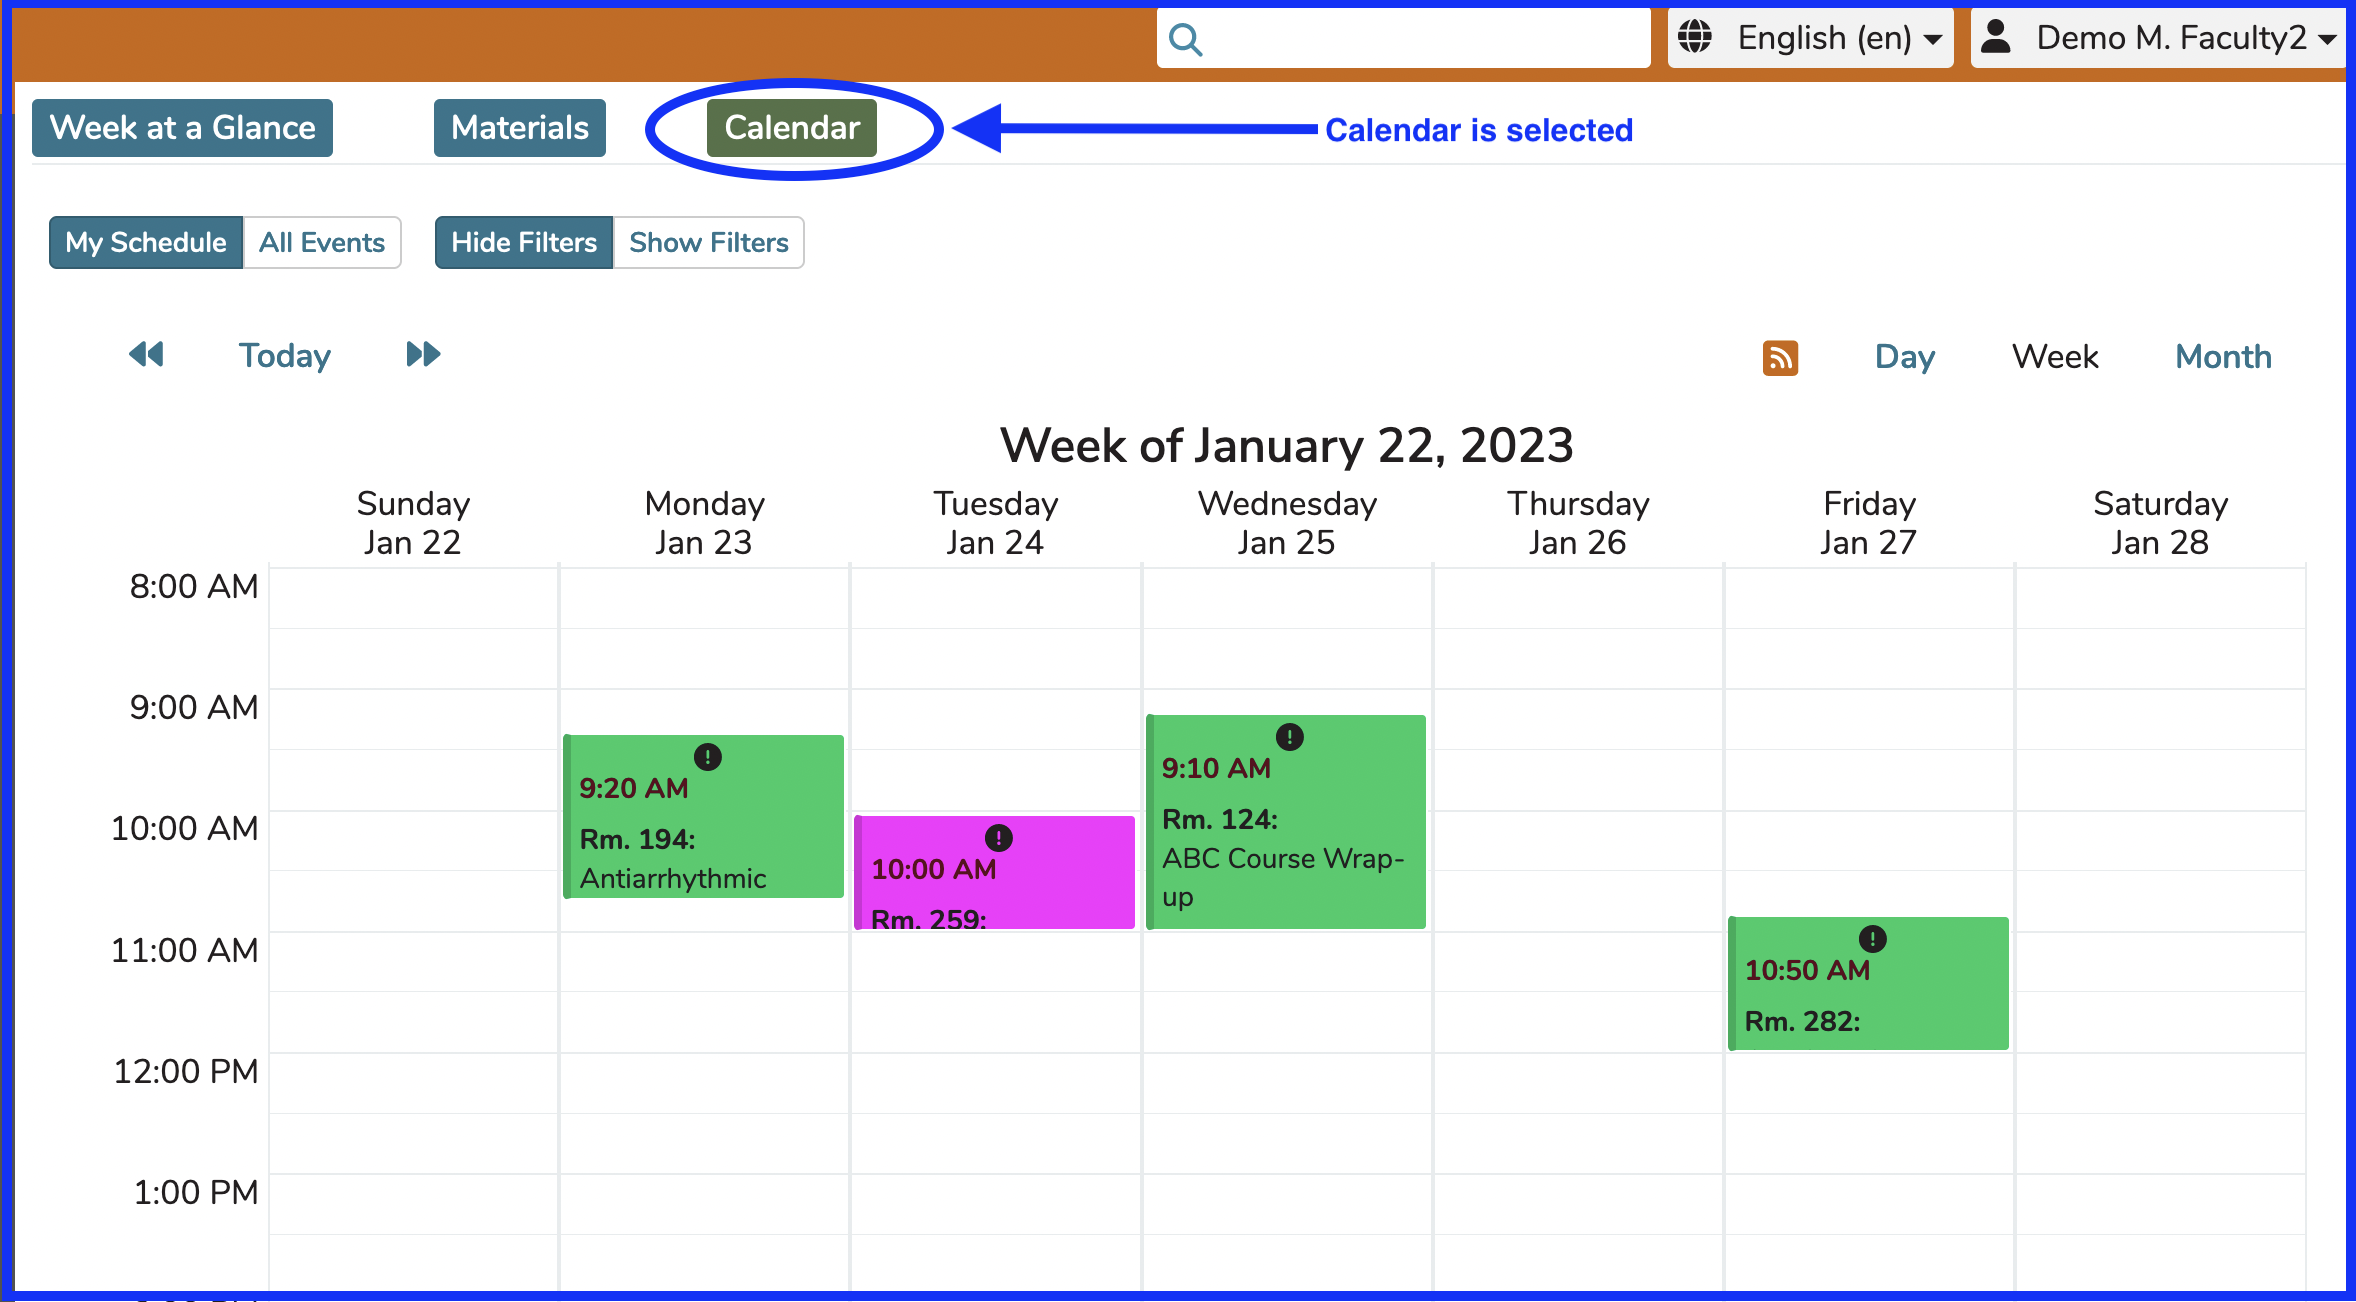
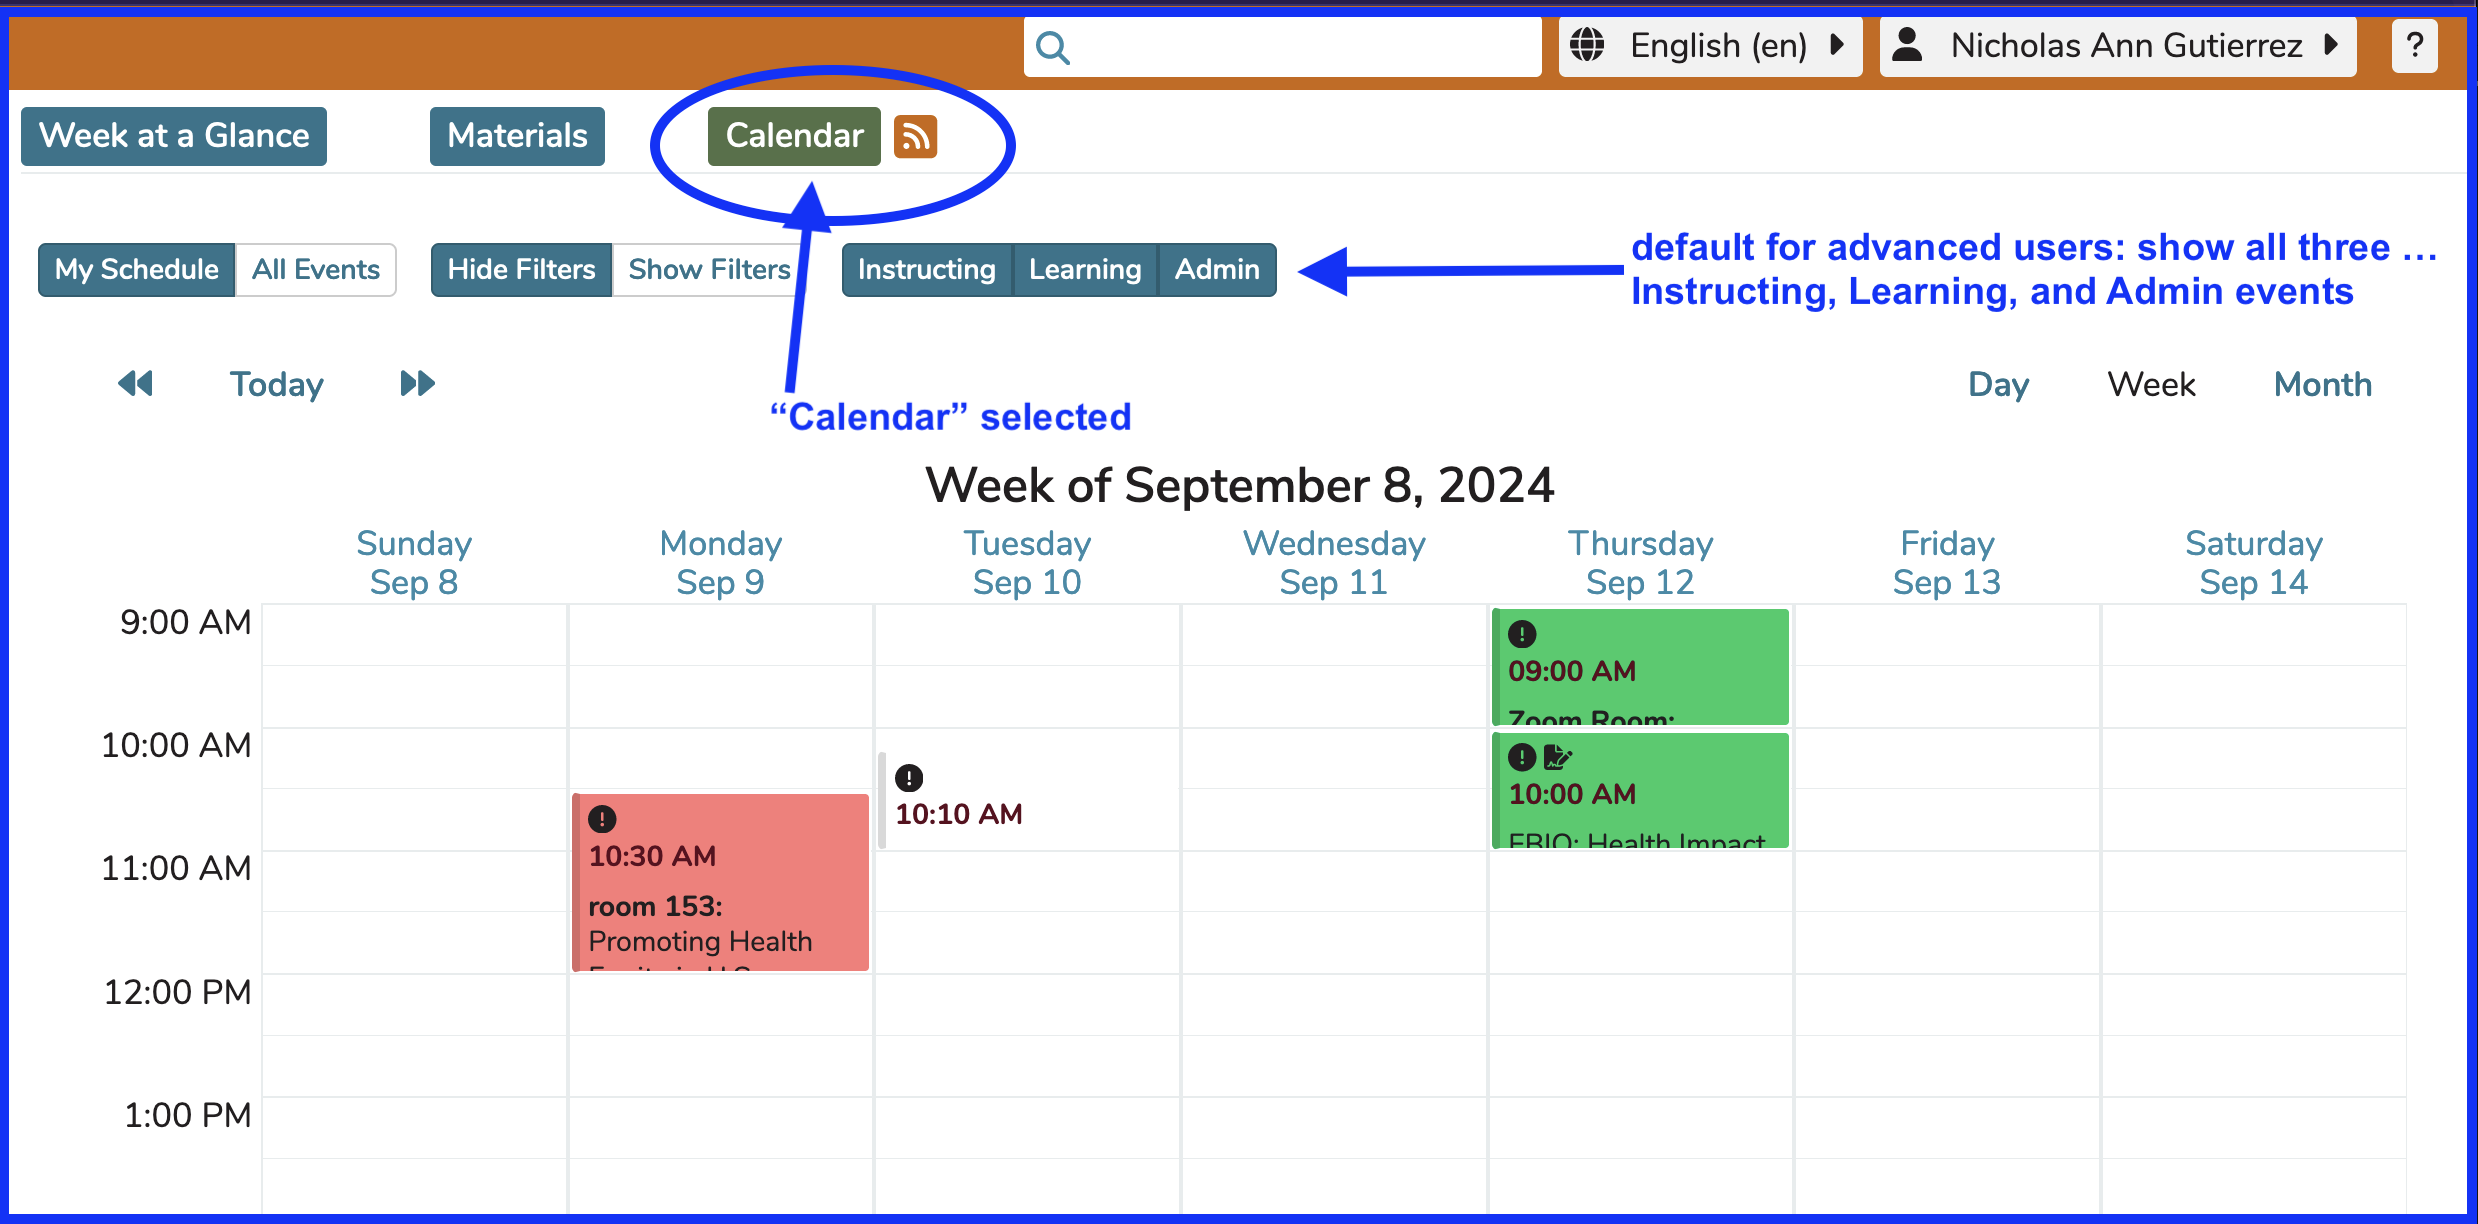
updated calendar main image to show new additional filters

diff --git a/dashboard/calendar-view.md b/dashboard/calendar-view.md
@@ -2,7 +2,7 @@
 
 ## Switch to Calendar
 
-![Calendar selected](../images/calendar_view_images/calendar_selected.png)
+![calendar selected](../images/calendar_view_images/calendar_selected.png)
 
 Switching to the Calendar by clicking the Calendar button as shown above will cause the window to display as shown above. The Calendar becomes visible and enabled.
 
